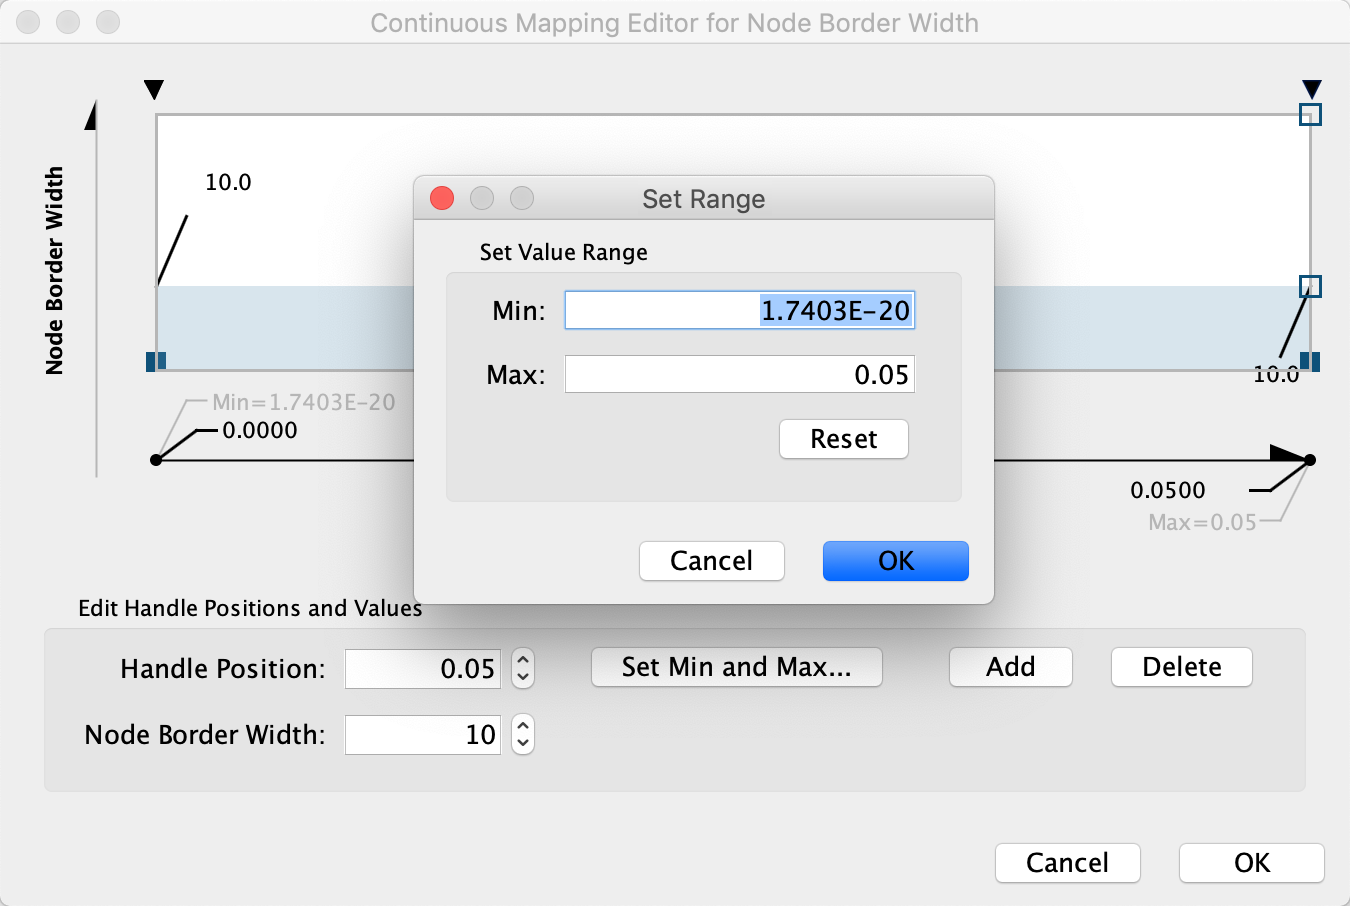
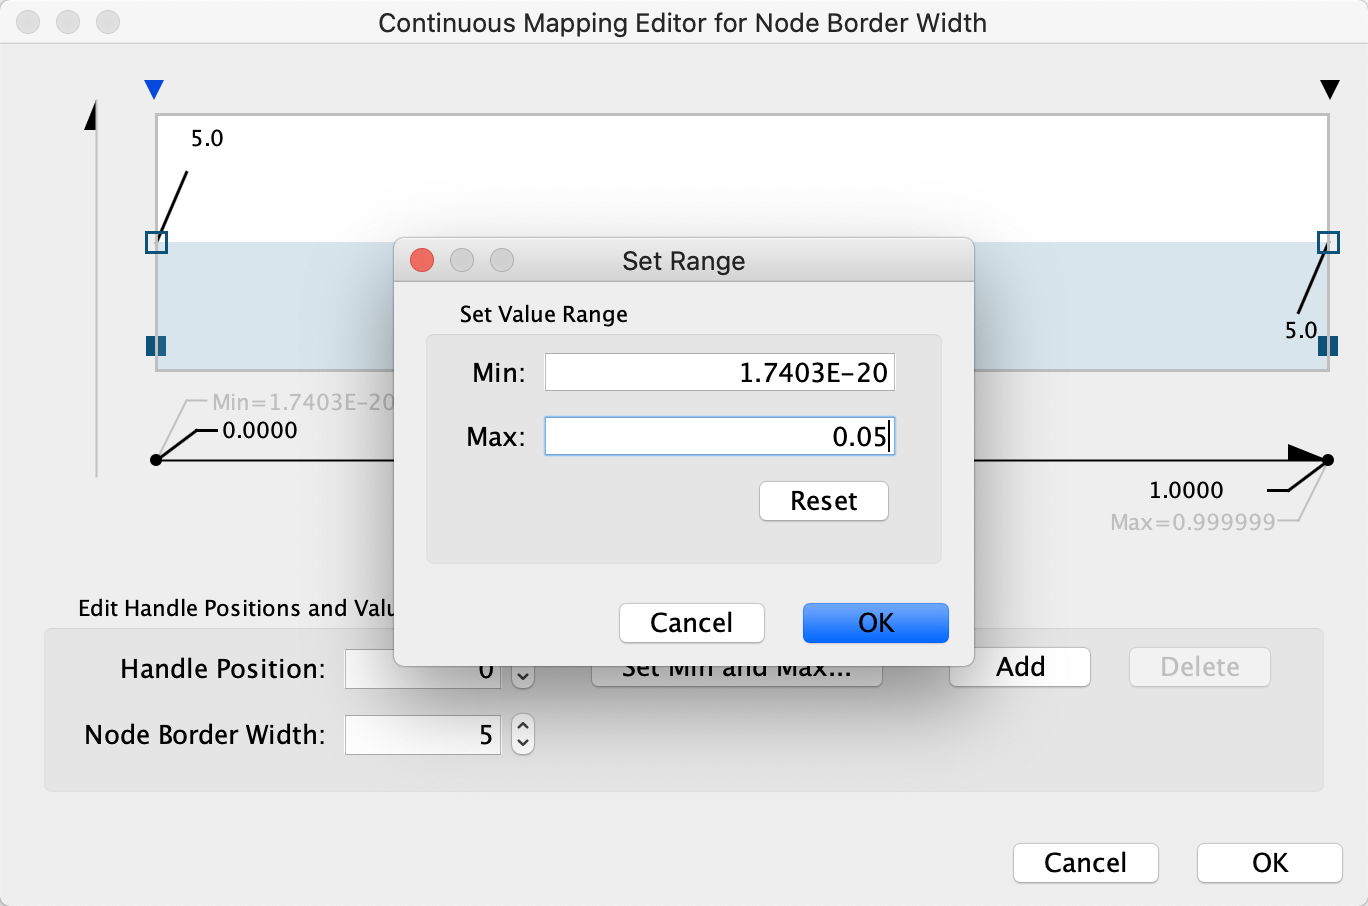
updated basic data viz protocol

diff --git a/protocols/basic-data-visualization/index.html b/protocols/basic-data-visualization/index.html
@@ -105,7 +105,7 @@ Add speaker notes here...
     <li>Find <highlight>Fill Color</highlight> in the list of <highlight>Node</highlight> properties and expand it to view the mapping options.</li>
 	<li>Click the <highlight>-- select value --</highlight> cell in the <highlight>Column</highlight> section, and select <b>gal80Rexp</b> in the drop-down.</li>
 	<li>Click the <highlight>-- select value--</highlight> cell in the <highlight>Mapping Type</highlight> section, and select <highlight>Continuous Mapping</highlight> in the drop-down.</li>
-    <li>This produces an initial gradient ranging from blue to red for expression values. For our purposes, this default gradient works so we don't need to edit it.</li>
+    <li>This produces a default <b>ColorBrewer</b> gradient ranging from blue to red for expression values. For our purposes, this gradient works so we don't need to edit it.</li>
     </ul><br /><br />
     <img class="plain" src="NodeFillMapping.png" style="width:40%">      
        
@@ -128,12 +128,16 @@ Add speaker notes here...
 	<h1>Set Default Node Color</h1>
 	<p>Some nodes in the network don't have any data, and for those nodes, the default color applies. In our case, the default color is blue, which falls within the spectrum of our blue-red gradient. This is not ideal for data visualization, so a useful trick is to choose a color outside the gradient spectrum to distinguish nodes with no defined expression value.</p>
     <ul>
-    <li>Still in the <highlight>Style</highlight> tab, under <highlight>Fill Color</highlight>, click the <highlight>Def.</highlight> (leftmost) square next to <highlight>Fill Color</highlight> and choose a light gray color.</li>
+    <li>Still in the <highlight>Style</highlight> tab, under <highlight>Node Fill Color</highlight>, click the <highlight>Def.</highlight> (leftmost) cell next to <highlight>Fill Color</highlight>.</li>
+    <li>In the <highlight>Colors</highlight> interface, you can click on any single color tile in a color palette to choose it. In this case, choose a light gray color.</li>
     </ul>
-         <img class="plain" src="NodeFillDefaultMapping.png" style="width:40%">
-         <aside class="notes" data-markdown>
-             Add speaker notes here...
-         </aside>
+    <br /><br />
+    <div style="float:left; width:45%">
+<img class="plain" src="ColorChooser.png">
+</div>
+<div style="float:right; width:45%">
+<img class="plain" src="NodeFillDefaultMapping.png">
+</div>      
     </section>
                 
     <section>
@@ -145,22 +149,37 @@ Add speaker notes here...
     <section>
     <h1>Set Node Border Width</h1>
         <ul>
-            <li>Click on the middle square (<highlight>Map.</highlight>) next to the <highlight>Border Width</highlight> row in the <highlight>Style</highlight> panel.</li>
+            <li>Click on the <highlight>Map.</highlight> cell for the <highlight>Node Border Width</highlight> property in the <highlight>Style</highlight> panel.</li>
             <li>Click the <highlight>-- select value --</highlight> cell in the <highlight>Column</highlight> section, and select <b>gal80Rsig</b> in the drop-down.</li>
             <li>Click the <highlight>-- select value--</highlight> cell in the <highlight>Mapping Type</highlight> section, and select <highlight>Continuous Mapping</highlight> in the drop-down.</li>
             <li>Double-click on the gradient, which defines the node border width over the range of p values.</li>
             <li>First, we will define the min/max of the range of p values we are interested in, that is anything under 0.05. Click on <highlight>Set Min and Max...</highlight> and set the max to <b>0.05</b>. Click <highlight>OK</highlight> to save.</li>
-            <li>Click on the handle for the max value (black triangle on the right-most end of the gradient) and set the value to <b>10</b> in the <highlight>Node Border Width</highlight> field. Click <highlight>OK</highlight> to update the mapping.</li>
+            <li>Click on the handle for the max value (black triangle on the right-most end of the gradient) and set the value to <b>5</b> in the <highlight>Node Border Width</highlight> field. Click <highlight>OK</highlight> to update the mapping.</li>
             <li>Click the <highlight>Def.</highlight> value for <highlight>Node Border Paint</highlight> and select a dark grey color.</li>
         </ul>
         <img class="plain" src="NodeBorderGradient.png" style="width:40%">
         <br />
         <p>To learn more about <b>visualizing data</b>, see the <a href="https://cytoscape.github.io/cytoscape-tutorials/protocols/mapping-data/#/" target="_blank">Visualizing Expression Data Tutorial</a>.</p>
     </section>
+    
+    <section>
+    <h1>Set Node Border Color</h1>
+        <ul>
+            <li>Click on the <highlight>Map.</highlight> cell for the <highlight>Node Border Paint</highlight> property in the <highlight>Style</highlight> panel.</li>
+            <li>Click the <highlight>-- select value --</highlight> cell in the <highlight>Column</highlight> section, and select <b>gal80Rsig</b> in the drop-down.</li>
+            <li>Click the <highlight>-- select value--</highlight> cell in the <highlight>Mapping Type</highlight> section, and select <highlight>Continuous Mapping</highlight> in the drop-down.</li>
+            <li>Double-click on the gradient.</li>
+            <li>Similar to the last step, we will define the min/max of the range of p values we are interested in, that is anything under 0.05. Click on <highlight>Set Min and Max...</highlight> and set the max to <b>0.05</b>. Click <highlight>OK</highlight> to save.</li>
+            <li>Click on the large triangle handle at the right-most end of the gradient. This defines the border color for nodes with <b>gal80Rsig</b> > 0.05, so let's set it to dark grey.</li>
+            <li>Next, set all the other handles to the same dark red color. We can delete the middle handle since we want the same color for anything under 0.05, simply select it and click <highlight>Delete</highlight>.</li>
+        </ul>
+        
+        <img class="plain" src="NodeBorderColor.png" style="width:40%">
+    </section>
                 
     <section>
         <h1>Set Node Border Width</h1>
-        <p>All nodes with a <b>gal80RSig</b> p-value of 0.05 or less will now have a <highlight>Node Border Width</highlight> of 10:</p>
+        <p>All nodes with a <b>gal80RSig</b> p-value of 0.05 or less will now have a thicker red border:</p>
                 
         <img class="plain" src="NodeBorderWidth.png" style="width:50%"> 
     </section>
@@ -171,7 +190,7 @@ Add speaker notes here...
         <li>For the <highlight>Node Label</highlight>, change the <highlight>Column</highlight> selection for the mapping from <b>name</b> to <b>COMMON</b>.</li>
         <li>Click the <highlight>-- select value--</highlight> cell in the <highlight>Mapping Type</highlight> section, and select <highlight>Passthrough Mapping</highlight> in the drop-down.</li>
         <br /><br />
-        <img class="plain" src="NodeLabel.png" style="width:40%">        
+        <img class="plain" src="NodeLabel.png" style="width:50%">        
     </section>
                 
     <section>
@@ -202,7 +221,7 @@ Add speaker notes here...
     </section>
                 
     <section>
-        <h1>Creating a Legend</h1>
+        <h1>Creating the Legend</h1>
         <p>The Cytoscape app <b>Legend Creator</b> allows you to create a customized legend for your visualization. You can install Legend Creator from the <a href="http://apps.cytoscape.org/apps/legendcreator">App Store</a> or via the <highlight>Cytoscape App Manager</highlight>.</p>
         <ul>
             <li>In the <highlight>Control Panel</highlight>, go to the <highlight>Legend Panel</highlight>. This is the interface for the <b>Legend Creator</b> app, and will list multiple options for creating a legend.</li>
